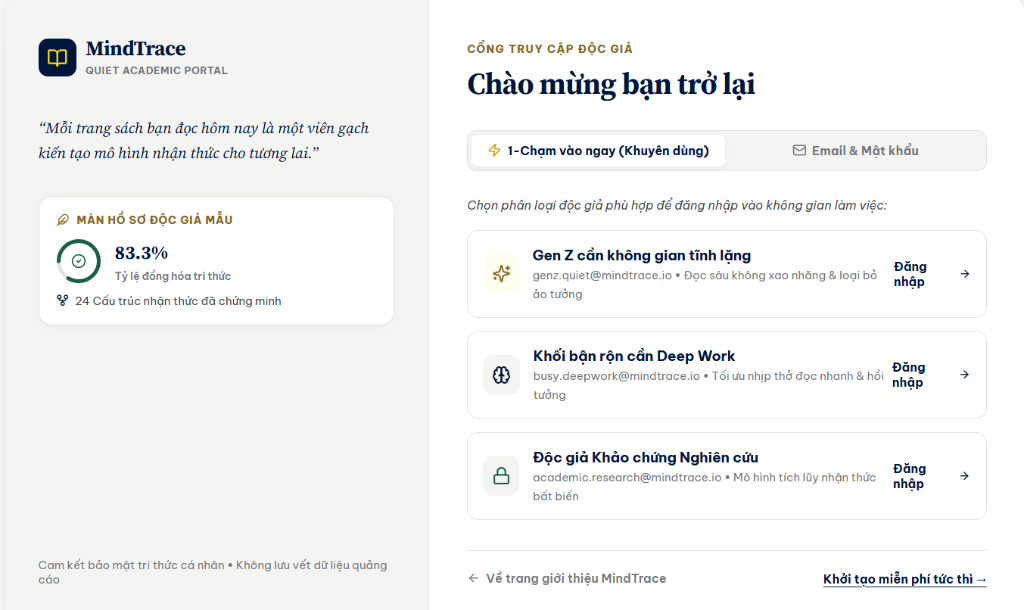
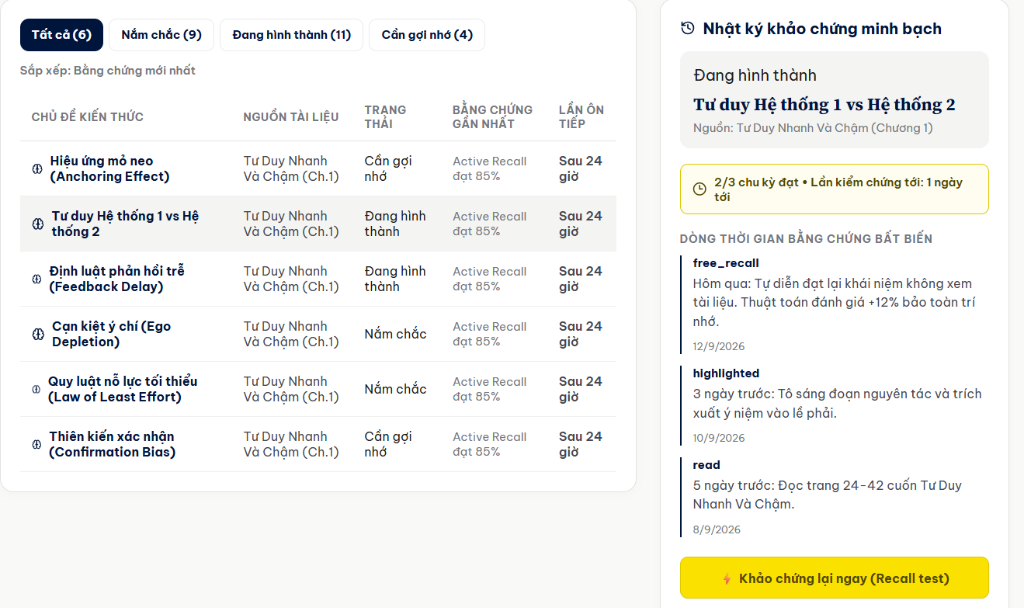
Swap file content of demo_login.png and demo_canvas.png on disk to fix slide 3 and slide 4 image inversion

diff --git a/mindtrace_slide_deck.html b/mindtrace_slide_deck.html
@@ -522,7 +522,7 @@
           </div>
 
           <div class="image-card">
-            <img src="./demo_login.png?v=2" alt="Trang Đăng Nhập & Phân Loại Đối Tượng Độc Giả Thật" onclick="openModal(this.src)">
+            <img src="./demo_login.png?v=3" alt="Trang Đăng Nhập & Phân Loại Đối Tượng Độc Giả Thật" onclick="openModal(this.src)">
             <div class="image-caption">Ảnh chụp giao diện thật: Đăng nhập & Chọn Profile Độc Giả</div>
           </div>
         </div>
@@ -534,7 +534,7 @@
         <h2 class="slide-title">5 Tính Năng Đột Phá & Bảng Tri Thức Real</h2>
         <div class="slide-content grid-2">
           <div class="image-card">
-            <img src="./demo_canvas.png?v=2" alt="Giao diện Bản Đồ Tri Thức & Kiểm Chứng Minh Bạch Thật" onclick="openModal(this.src)">
+            <img src="./demo_canvas.png?v=3" alt="Giao diện Bản Đồ Tri Thức & Kiểm Chứng Minh Bạch Thật" onclick="openModal(this.src)">
             <div class="image-caption">Ảnh chụp giao diện thật: Nhật Ký Khảo Chứng & Bản Đồ Tri Thức</div>
           </div>
           <div class="info-card" style="display:flex; flex-direction:column; justify-content:center;">
@@ -644,7 +644,7 @@
         <h2 class="slide-title">Demo Thư Viện Tài Liệu & Đọc PDF AI Real</h2>
         <div class="slide-content grid-2">
           <div class="image-card">
-            <img src="./demo_library_real.png?v=2" alt="Thư Viện Tài Liệu & Quản Lý PDF Thật" onclick="openModal(this.src)">
+            <img src="./demo_library_real.png?v=3" alt="Thư Viện Tài Liệu & Quản Lý PDF Thật" onclick="openModal(this.src)">
             <div class="image-caption">Ảnh chụp giao diện thật: Thư Viện Tài Liệu & Quản Lý PDF AI</div>
           </div>
           <div class="info-card" style="display:flex; flex-direction:column; justify-content:center;">
